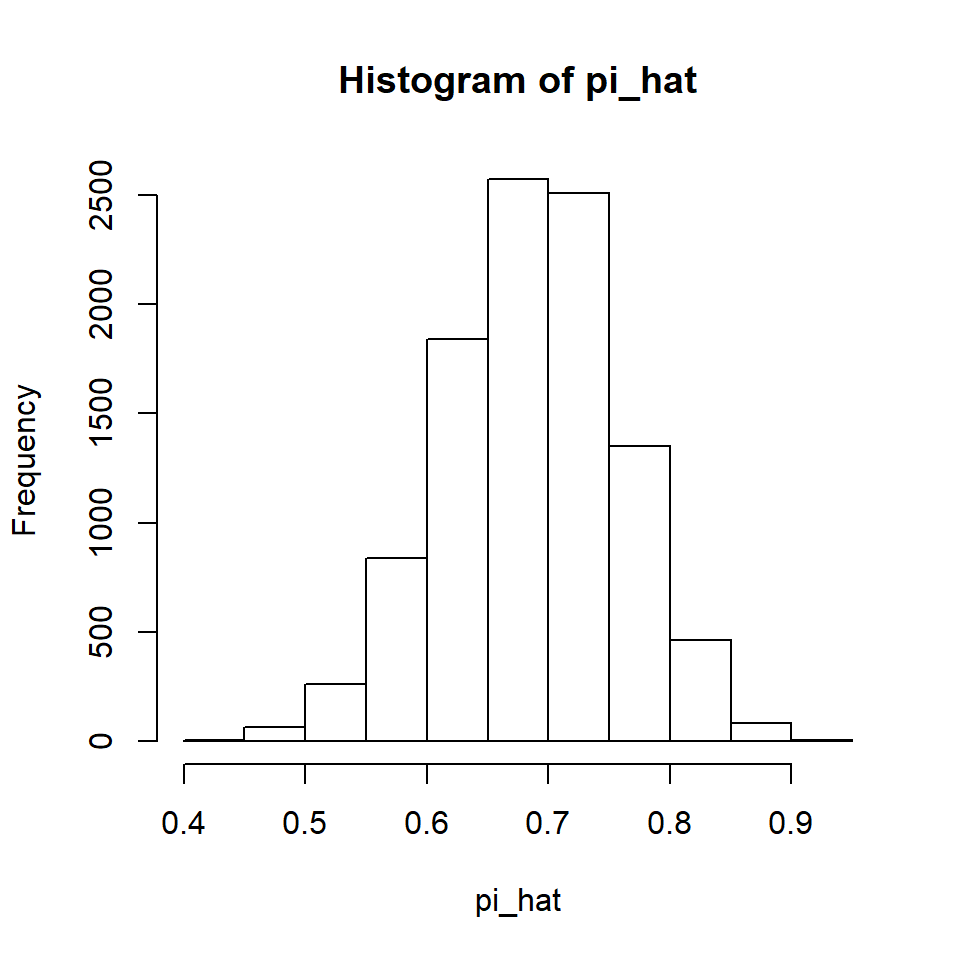
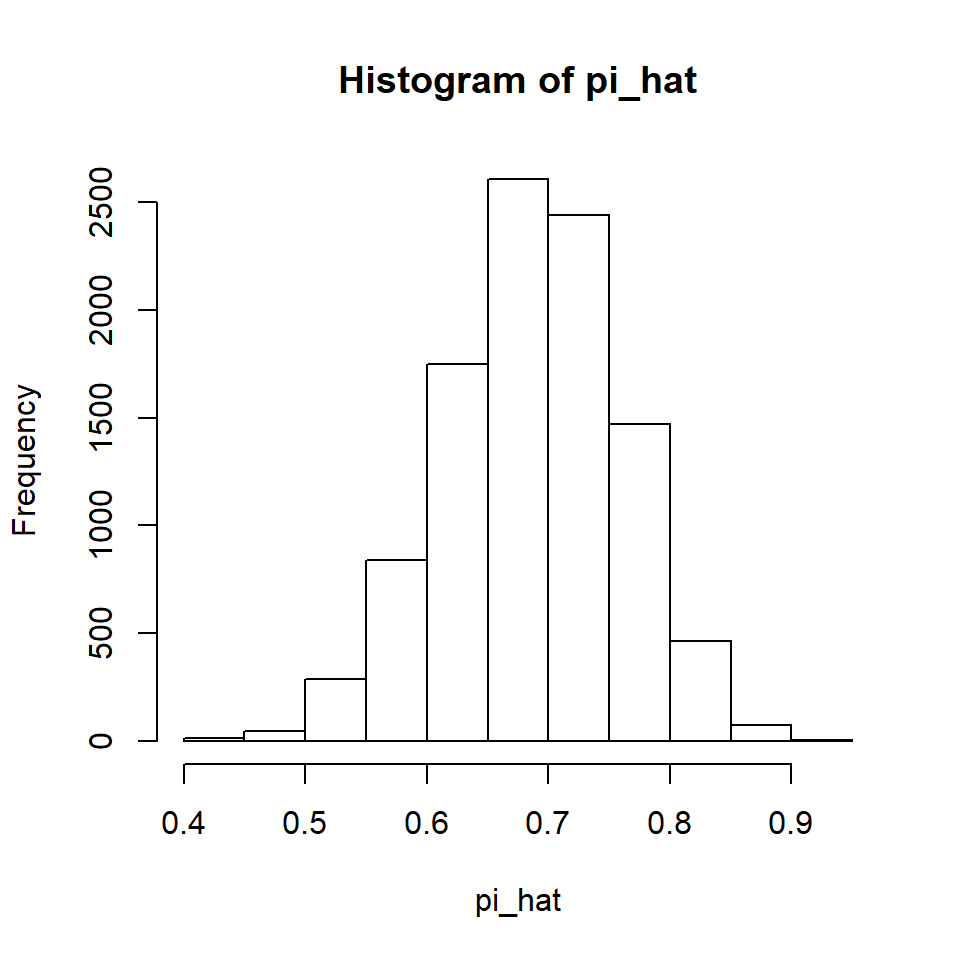
Completed binomial distribution vignette

diff --git a/docs/articles/binomdist.html b/docs/articles/binomdist.html
@@ -30,7 +30,7 @@
       </button>
       <span class="navbar-brand">
         <a class="navbar-link" href="../index.html">nplearn</a>
-        <span class="version label label-danger" data-toggle="tooltip" data-placement="bottom" title="Unreleased version">0.0.0.9003</span>
+        <span class="version label label-danger" data-toggle="tooltip" data-placement="bottom" title="Unreleased version">0.0.0.9004</span>
       </span>
     </div>
 
@@ -89,7 +89,7 @@
 
     
     
-<p>The binomial distribution is the key to exact inference about a proportion. The purpose of this vignette is to explain the binomial distribution and then demonstrate how it can be used for exact inference, including both hypothesis testing and confidence interval construction.</p>
+<p>The binomial distribution is the key to exact inference about a proportion. The purpose of this vignette is to explain the binomial distribution and provide some examples of practical uses for this distribution. This will pave the way for later learning about how the binomial distribution can be used for exact inference, including both hypothesis testing and confidence interval construction.</p>
 <div id="required-packages" class="section level3">
 <h3 class="hasAnchor">
 <a href="#required-packages" class="anchor"></a>Required packages</h3>
@@ -164,12 +164,121 @@
 <p>To calculate how many permutations there are when we include identical “objects” (we consider every “right” and every “wrong” as identical) we need to divide the total number of permutations by the number of permutations of each identical object. Here’s the calculation for five true-false items when three are correct and two are incorrect.</p>
 <div class="sourceCode" id="cb19"><pre class="sourceCode r"><code class="sourceCode r"><span id="cb19-1"><a href="#cb19-1"></a><span class="kw"><a href="https://www.rdocumentation.org/packages/base/topics/Special">factorial</a></span>(<span class="dv">5</span>)<span class="op">/</span>(<span class="kw"><a href="https://www.rdocumentation.org/packages/base/topics/Special">factorial</a></span>(<span class="dv">3</span>)<span class="op">*</span><span class="kw"><a href="https://www.rdocumentation.org/packages/base/topics/Special">factorial</a></span>(<span class="dv">2</span>))</span>
 <span id="cb19-2"><a href="#cb19-2"></a><span class="co">#&gt; [1] 10</span></span></code></pre></div>
-<p>This can be extended to any number of identical objects. The case where we have only two identical objects is all we will need when looking at a series of Bernoulli events, because by definition a Bernoulli event only has one of two outcomes. Given this case is so special, there is a special expression for it, as well as a special function for it. When we want to know how many ways we can get three items correct out of five Bernoulli trials, we say <em>five choose three</em>. Here’s the function.</p>
+<p>This can be extended to any number of identical objects. The case where we have only two identical objects is all we will need when looking at a series of Bernoulli events, because by definition a Bernoulli event only has one of two outcomes. Given this case is so special, there is a special expression for it, as well as a special function for it. When we want to know how many ways we can get three items correct out of five Bernoulli trials, we say <em>five choose three</em>. Here is how we represent it.</p>
+<p><span class="math inline">\(\binom{5}{3}\)</span></p>
+<p>Here’s the R function.</p>
 <div class="sourceCode" id="cb20"><pre class="sourceCode r"><code class="sourceCode r"><span id="cb20-1"><a href="#cb20-1"></a><span class="kw"><a href="https://www.rdocumentation.org/packages/base/topics/Special">choose</a></span>(<span class="dv">5</span>, <span class="dv">3</span>)</span>
 <span id="cb20-2"><a href="#cb20-2"></a><span class="co">#&gt; [1] 10</span></span></code></pre></div>
-<p>This function is referred to as the <em>binomial coefficient</em>. It would seem quite difficult to figure how many different ways there are to obtain 13 correct answers on a 20-item true-false quiz, but the binomial coefficient function makes it easy.</p>
+<p>This function is referred to as the <em>binomial coefficient</em>. In general, we represent the number of ways that we can have <span class="math inline">\(x\)</span> successes in <span class="math inline">\(n\)</span> trials like this, which we read as <em>n choose x</em>.</p>
+<p><span class="math inline">\(\binom{n}{x}\)</span></p>
+<p>It would seem quite difficult to figure how many different ways there are to obtain 13 correct answers on a 20-item true-false quiz, but the binomial coefficient function makes it easy.</p>
 <div class="sourceCode" id="cb21"><pre class="sourceCode r"><code class="sourceCode r"><span id="cb21-1"><a href="#cb21-1"></a><span class="kw"><a href="https://www.rdocumentation.org/packages/base/topics/Special">choose</a></span>(<span class="dv">20</span>,<span class="dv">13</span>)</span>
 <span id="cb21-2"><a href="#cb21-2"></a><span class="co">#&gt; [1] 77520</span></span></code></pre></div>
+</div>
+<div id="the-binomial-probability-function" class="section level3">
+<h3 class="hasAnchor">
+<a href="#the-binomial-probability-function" class="anchor"></a>The Binomial Probability Function</h3>
+<p>If we combine the concepts of joint events with the binomial coefficient, we can answer an interesting question. When we observe <span class="math inline">\(n\)</span> independent Bernoulli events, each with the same probability of success, <span class="math inline">\(\pi\)</span>, what is the probability that <span class="math inline">\(x\)</span> of these events will be a success? If that doesn’t really sound very interesting to you, consider a few examples.</p>
+<p><em>If the chance of contracting an illness is 40% when coming into contact </em> <em>with another person with the illness, what is the probability that all six </em> <em>people who came into contact with an ill person will avoid aquiring the </em> <em>illness themself?</em></p>
+<p><em>Suppose that there is an expensive treatment for the above illness and that </em> <em>medical professionals purchased enough drugs to treat two patients in </em> <em>anticipation that two of the six people will contract the illness. What is </em> <em>the probability that exactly two of the six people will indeed contract the </em> <em>illness?</em></p>
+<p><em>If the overall pass rate on an entrance exam is 70%, what is the probability </em> <em>that we will be able to fill eight slots with successful examinees if there </em> <em>are 11 applicants for the position?</em></p>
+<p>As we will see in the next vignette, knowing the probability of <span class="math inline">\(x\)</span> successes in <span class="math inline">\(n\)</span> trials can also be used to conduct hypotheses tests and construct confidence intervals for a proportion, so the value of being able to calculate probabilities based on <span class="math inline">\(n\)</span> Bernoulli events goes beyond answering questions like those above.</p>
+<p>Recall that we calculate the probability of independent joint events by taking the product of the probability of each event. When there is a 70% chance of passing an item on a five-item quiz, we calculate the probability of getting the first three items correct but missing the two remaining items like this.</p>
+<div class="sourceCode" id="cb22"><pre class="sourceCode r"><code class="sourceCode r"><span id="cb22-1"><a href="#cb22-1"></a><span class="fl">0.7</span><span class="op">^</span><span class="dv">3</span> <span class="op">*</span><span class="st"> </span><span class="fl">0.3</span><span class="op">^</span><span class="dv">2</span></span>
+<span id="cb22-2"><a href="#cb22-2"></a><span class="co">#&gt; [1] 0.03087</span></span></code></pre></div>
+<p>In more general terms, the chance of getting the first <span class="math inline">\(x\)</span> items correct but missing the remaining items on an <span class="math inline">\(n\)</span>-item quiz when the probability of success is <span class="math inline">\(pi\)</span> is calculated like this.</p>
+<p><span class="math inline">\(\pi^x (1-\pi)^{(n-x)}\)</span></p>
+<p>That is, we multiply the probability of the <span class="math inline">\(x\)</span> successes by the probability of the <span class="math inline">\(n-x\)</span> failures.</p>
+<p>I can’t think of a reason why I would want to know the chance of getting the first three items correct and missing the last two, but I can think of why I might want to know the probability of missing <em>any</em> two, not just the last two. That is where the binomial coefficient comes in handy. The binomial coefficient tells us how many ways we can arrange <span class="math inline">\(x\)</span> successes in <span class="math inline">\(n\)</span> trials. Here is how many ways we can have exactly three items correct on a five-item quiz.</p>
+<div class="sourceCode" id="cb23"><pre class="sourceCode r"><code class="sourceCode r"><span id="cb23-1"><a href="#cb23-1"></a><span class="kw"><a href="https://www.rdocumentation.org/packages/base/topics/Special">choose</a></span>(<span class="dv">5</span>, <span class="dv">3</span>)</span>
+<span id="cb23-2"><a href="#cb23-2"></a><span class="co">#&gt; [1] 10</span></span></code></pre></div>
+<p>If I multiply the probability of one specific sequence of three correct and two wrong with the number of ways I can have three correct and two wrong, that will give me the probability of obtaining any three correct on a five-item quiz.</p>
+<div class="sourceCode" id="cb24"><pre class="sourceCode r"><code class="sourceCode r"><span id="cb24-1"><a href="#cb24-1"></a><span class="kw"><a href="https://www.rdocumentation.org/packages/base/topics/Special">choose</a></span>(<span class="dv">5</span>, <span class="dv">3</span>) <span class="op">*</span><span class="st"> </span><span class="fl">0.7</span><span class="op">^</span><span class="dv">3</span> <span class="op">*</span><span class="st"> </span><span class="fl">0.3</span><span class="op">^</span><span class="dv">2</span></span>
+<span id="cb24-2"><a href="#cb24-2"></a><span class="co">#&gt; [1] 0.3087</span></span></code></pre></div>
+<p>We can right this in general terms like this.</p>
+<p><span class="math inline">\(P(X = x) = \binom{n}{x}\pi^x (1-\pi)^{(n-x)}\)</span></p>
+<p>This is the binomial probability function. It tells us the probability of <span class="math inline">\(x\)</span> successes in <span class="math inline">\(n\)</span> Bernoulli events when the probability of success is <span class="math inline">\(\pi\)</span> for each Bernoulli event. Note that whereas the values of <span class="math inline">\(x\)</span> are either 0 or 1 for a Bernoulli event, the values of <span class="math inline">\(x\)</span> for the binomial function will range from 0 to <span class="math inline">\(n\)</span>. That is, you can have 0 success, 1 success, 2 successes, and so on, all the way up to <span class="math inline">\(n\)</span> successes.</p>
+<p>Let’s now answer the first two of our three questions.</p>
+<p><em>If the chance of contracting an illness is 40% when coming into contact </em> <em>with another person with the illness, what is the probability that all six </em> <em>people who came into contact with an ill person will avoid aquiring the </em> <em>illness themself?</em></p>
+<p>Here’s the formula that will provide the solution.</p>
+<p><span class="math inline">\(P(X = 0) = \binom{6}{0}0.4^0 (1-0.4)^{(6-0)}\)</span></p>
+<p>Here it is calculated in R.</p>
+<div class="sourceCode" id="cb25"><pre class="sourceCode r"><code class="sourceCode r"><span id="cb25-1"><a href="#cb25-1"></a><span class="kw"><a href="https://www.rdocumentation.org/packages/base/topics/Special">choose</a></span>(<span class="dv">6</span>, <span class="dv">0</span>)<span class="op">*</span><span class="fl">0.4</span><span class="op">^</span><span class="dv">0</span><span class="op">*</span>(<span class="dv">1</span><span class="fl">-0.4</span>)<span class="op">^</span>(<span class="dv">6-0</span>)</span>
+<span id="cb25-2"><a href="#cb25-2"></a><span class="co">#&gt; [1] 0.046656</span></span></code></pre></div>
+<p>It looks like there is a very high chance that someone will get sick! The second question is about the anticipation that this will be two people.</p>
+<p><em>Suppose that there is an expensive treatment for the above illness and that </em> <em>medical professionals purchased enough drugs to treat two patients in </em> <em>anticipation that two of the six people will contract the illness. What is </em> <em>the probability that exactly two of the six people will indeed contract the </em> <em>illness?</em></p>
+<p>Here’s the formula that will provide the solution.</p>
+<p><span class="math inline">\(P(X = 2) = \binom{6}{2}0.4^2 (1-0.4)^{(6-2)}\)</span></p>
+<p>Here it is calculated in R.</p>
+<div class="sourceCode" id="cb26"><pre class="sourceCode r"><code class="sourceCode r"><span id="cb26-1"><a href="#cb26-1"></a><span class="kw"><a href="https://www.rdocumentation.org/packages/base/topics/Special">choose</a></span>(<span class="dv">6</span>, <span class="dv">2</span>)<span class="op">*</span><span class="fl">0.4</span><span class="op">^</span><span class="dv">2</span><span class="op">*</span>(<span class="dv">1</span><span class="fl">-0.4</span>)<span class="op">^</span>(<span class="dv">6-2</span>)</span>
+<span id="cb26-2"><a href="#cb26-2"></a><span class="co">#&gt; [1] 0.31104</span></span></code></pre></div>
+<p>So there is about a one in three chance that the medical staff purchased exactly the correct amount of drugs. It is probably more reasonable to believe that the medical staff wants to make sure they have enough drugs, but it would be OK to have some left over. This leads us to the most common use of the binomial probability function, which is the creation of the binomial distribution.</p>
+</div>
+<div id="the-binomial-distribution" class="section level3">
+<h3 class="hasAnchor">
+<a href="#the-binomial-distribution" class="anchor"></a>The Binomial Distribution</h3>
+<p>Rather than calculating the probability that zero or two people will get sick when they come in contact with a particular bacteria or virus, wouldn’t it make sense to know the probability for every possible outcome? Yes! That is what we do to create the binomial distribution. Here are all the probabilities.</p>
+<div class="sourceCode" id="cb27"><pre class="sourceCode r"><code class="sourceCode r"><span id="cb27-1"><a href="#cb27-1"></a>n &lt;-<span class="st"> </span><span class="dv">6</span></span>
+<span id="cb27-2"><a href="#cb27-2"></a>x &lt;-<span class="st"> </span><span class="dv">0</span><span class="op">:</span>n</span>
+<span id="cb27-3"><a href="#cb27-3"></a>pi &lt;-<span class="st"> </span><span class="fl">0.4</span></span>
+<span id="cb27-4"><a href="#cb27-4"></a></span>
+<span id="cb27-5"><a href="#cb27-5"></a>prob.x &lt;-<span class="st"> </span><span class="kw"><a href="https://www.rdocumentation.org/packages/base/topics/Special">choose</a></span>(n, x)<span class="op">*</span>pi<span class="op">^</span>x<span class="op">*</span>(<span class="dv">1</span><span class="op">-</span>pi)<span class="op">^</span>(n<span class="op">-</span>x)</span>
+<span id="cb27-6"><a href="#cb27-6"></a></span>
+<span id="cb27-7"><a href="#cb27-7"></a><span class="kw"><a href="https://www.rdocumentation.org/packages/base/topics/cbind">cbind</a></span>(x,prob.x)</span>
+<span id="cb27-8"><a href="#cb27-8"></a><span class="co">#&gt;      x   prob.x</span></span>
+<span id="cb27-9"><a href="#cb27-9"></a><span class="co">#&gt; [1,] 0 0.046656</span></span>
+<span id="cb27-10"><a href="#cb27-10"></a><span class="co">#&gt; [2,] 1 0.186624</span></span>
+<span id="cb27-11"><a href="#cb27-11"></a><span class="co">#&gt; [3,] 2 0.311040</span></span>
+<span id="cb27-12"><a href="#cb27-12"></a><span class="co">#&gt; [4,] 3 0.276480</span></span>
+<span id="cb27-13"><a href="#cb27-13"></a><span class="co">#&gt; [5,] 4 0.138240</span></span>
+<span id="cb27-14"><a href="#cb27-14"></a><span class="co">#&gt; [6,] 5 0.036864</span></span>
+<span id="cb27-15"><a href="#cb27-15"></a><span class="co">#&gt; [7,] 6 0.004096</span></span></code></pre></div>
+<p>Given that we calculated the probability for every possible outcome, these better add to one!</p>
+<div class="sourceCode" id="cb28"><pre class="sourceCode r"><code class="sourceCode r"><span id="cb28-1"><a href="#cb28-1"></a><span class="kw"><a href="https://www.rdocumentation.org/packages/base/topics/sum">sum</a></span>(prob.x)</span>
+<span id="cb28-2"><a href="#cb28-2"></a><span class="co">#&gt; [1] 1</span></span></code></pre></div>
+<p>They do! Here’s a picture of the binomial distribution. Note that it relates every possible value of <span class="math inline">\(x\)</span> to the probability of observing <span class="math inline">\(x\)</span> in <span class="math inline">\(n\)</span> trials, so this is a probability function.</p>
+<div class="sourceCode" id="cb29"><pre class="sourceCode r"><code class="sourceCode r"><span id="cb29-1"><a href="#cb29-1"></a><span class="kw"><a href="../reference/binom_plot.html">binom_plot</a></span>(<span class="dv">6</span>, <span class="fl">0.4</span>)</span></code></pre></div>
+<p><img src="binomdist_files/figure-html/unnamed-chunk-29-1.png" width="700"></p>
+<p>If we want to determine the probability that we have enough drugs for up to two people who may get sick (rather than exactly two people), we can find the cumulative probability up to and including two.</p>
+<div class="sourceCode" id="cb30"><pre class="sourceCode r"><code class="sourceCode r"><span id="cb30-1"><a href="#cb30-1"></a>n &lt;-<span class="st"> </span><span class="dv">6</span></span>
+<span id="cb30-2"><a href="#cb30-2"></a>x &lt;-<span class="st"> </span><span class="dv">0</span><span class="op">:</span><span class="dv">2</span></span>
+<span id="cb30-3"><a href="#cb30-3"></a>pi &lt;-<span class="st"> </span><span class="fl">0.4</span></span>
+<span id="cb30-4"><a href="#cb30-4"></a></span>
+<span id="cb30-5"><a href="#cb30-5"></a>prob.x &lt;-<span class="st"> </span><span class="kw"><a href="https://www.rdocumentation.org/packages/base/topics/Special">choose</a></span>(n, x)<span class="op">*</span>pi<span class="op">^</span>x<span class="op">*</span>(<span class="dv">1</span><span class="op">-</span>pi)<span class="op">^</span>(n<span class="op">-</span>x)</span>
+<span id="cb30-6"><a href="#cb30-6"></a><span class="kw"><a href="https://www.rdocumentation.org/packages/base/topics/sum">sum</a></span>(prob.x)</span>
+<span id="cb30-7"><a href="#cb30-7"></a><span class="co">#&gt; [1] 0.54432</span></span></code></pre></div>
+<p>There’s a little better than a one in two chance that two doses will be enough. (If this is a serious disease, I would want a higher probability that I’m going to be able to treat everyone!)</p>
+<p>You may have guessed by now that we don’t really need to write R code to make these calculations because someone has already done it for us. You would be correct. The binomial distribution is a common distribution, so we have the d, p, q, and r distribution functions at our disposal. Yay!</p>
+<p>Here’s the probability that exactly two out of six people will contract the sickness.</p>
+<div class="sourceCode" id="cb31"><pre class="sourceCode r"><code class="sourceCode r"><span id="cb31-1"><a href="#cb31-1"></a><span class="kw"><a href="https://www.rdocumentation.org/packages/stats/topics/Binomial">dbinom</a></span>(<span class="dt">x =</span> <span class="dv">2</span>, <span class="dt">size =</span> <span class="dv">6</span>, <span class="dt">prob =</span> <span class="fl">0.4</span>)</span>
+<span id="cb31-2"><a href="#cb31-2"></a><span class="co">#&gt; [1] 0.31104</span></span></code></pre></div>
+<p>Here’s the probability that two or less persons out of six people will contract the sickness.</p>
+<div class="sourceCode" id="cb32"><pre class="sourceCode r"><code class="sourceCode r"><span id="cb32-1"><a href="#cb32-1"></a><span class="kw"><a href="https://www.rdocumentation.org/packages/stats/topics/Binomial">pbinom</a></span>(<span class="dv">2</span>, <span class="dv">6</span>, <span class="fl">0.4</span>)</span>
+<span id="cb32-2"><a href="#cb32-2"></a><span class="co">#&gt; [1] 0.54432</span></span></code></pre></div>
+<p>Suppose we want to be at least 80% certain that we have enough treatments. How many should we get?</p>
+<div class="sourceCode" id="cb33"><pre class="sourceCode r"><code class="sourceCode r"><span id="cb33-1"><a href="#cb33-1"></a><span class="kw"><a href="https://www.rdocumentation.org/packages/stats/topics/Binomial">qbinom</a></span>(<span class="fl">0.8</span>, <span class="dv">6</span>, <span class="fl">0.4</span>)</span>
+<span id="cb33-2"><a href="#cb33-2"></a><span class="co">#&gt; [1] 3</span></span></code></pre></div>
+<p>We need three treatments. Remember that this is a discrete distribution, so it would be unusual to have the cumulative probability up to, and including, three be exactly 80%. Let’s see what it is.</p>
+<div class="sourceCode" id="cb34"><pre class="sourceCode r"><code class="sourceCode r"><span id="cb34-1"><a href="#cb34-1"></a><span class="kw"><a href="https://www.rdocumentation.org/packages/stats/topics/Binomial">pbinom</a></span>(<span class="dv">3</span>, <span class="dv">6</span>, <span class="fl">0.4</span>)</span>
+<span id="cb34-2"><a href="#cb34-2"></a><span class="co">#&gt; [1] 0.8208</span></span></code></pre></div>
+<p>It is 82%. Remember the rule for quantiles of a discrete distribution. We are seeking the smallest value of <span class="math inline">\(x\)</span> on the distribution such that the cumulative probability to, and including, <span class="math inline">\(x\)</span> is at least the specified probability. That’s what we got here, and we were able to use this rule to our advantage by being at least 80% sure that we have enough treatments.</p>
+<p>Let’s consider the final question posed above.</p>
+<p><em>If the overall pass rate on an entrance exam is 70%, what is the probability </em> <em>that we will be able to fill eight slots with successful examinees if there </em> <em>are 11 applicants for the position?</em></p>
+<p>If we have eight or more successful examinees, we will be able to fill the eight slots. We could do this one of two ways. We could calculate the probability of seven or fewer successes and then subtract this from one.</p>
+<div class="sourceCode" id="cb35"><pre class="sourceCode r"><code class="sourceCode r"><span id="cb35-1"><a href="#cb35-1"></a><span class="dv">1</span> <span class="op">-</span><span class="st"> </span><span class="kw"><a href="https://www.rdocumentation.org/packages/stats/topics/Binomial">pbinom</a></span>(<span class="dv">7</span>, <span class="dv">11</span>, <span class="fl">0.7</span>)</span>
+<span id="cb35-2"><a href="#cb35-2"></a><span class="co">#&gt; [1] 0.5695623</span></span></code></pre></div>
+<p>Alternatively, we could calculate the upper tail.</p>
+<div class="sourceCode" id="cb36"><pre class="sourceCode r"><code class="sourceCode r"><span id="cb36-1"><a href="#cb36-1"></a><span class="kw"><a href="https://www.rdocumentation.org/packages/stats/topics/Binomial">pbinom</a></span>(<span class="dv">7</span>, <span class="dv">11</span>, <span class="fl">0.7</span>, <span class="dt">lower.tail =</span> <span class="ot">FALSE</span>)</span>
+<span id="cb36-2"><a href="#cb36-2"></a><span class="co">#&gt; [1] 0.5695623</span></span></code></pre></div>
+<p>The important trick to remember here is that if we want an upper tail that includes a specified value (in this case, the value of eight), we need to subtract one from this value to make sure it is included in the upper region of the distribution.</p>
+<p>Finally, suppose we wanted to do a simulation using the binomial distribution. Here are 20 random draws from a distribution with <span class="math inline">\(\pi\)</span> = 0.8 when the sample size is 15.</p>
+<div class="sourceCode" id="cb37"><pre class="sourceCode r"><code class="sourceCode r"><span id="cb37-1"><a href="#cb37-1"></a><span class="kw"><a href="https://www.rdocumentation.org/packages/stats/topics/Binomial">rbinom</a></span>(<span class="dv">20</span>, <span class="dv">15</span>, <span class="fl">0.8</span>)</span>
+<span id="cb37-2"><a href="#cb37-2"></a><span class="co">#&gt;  [1] 10 11 12 12 14 10 12 13 13 10 11 12 13 12 11 11 13 11 11 10</span></span></code></pre></div>
+<p>Keep in mind that what each number we are randomly generating is the value of <span class="math inline">\(x\)</span>, which is the number of successes in <span class="math inline">\(n\)</span> trials. In this example there are 15 opportunities for success. The probability of success is quite high, so we are primarily seeing high numbers of successes out of the 15 trials.</p>
+<p>In this example, we were drawing from a binomial distribution with <span class="math inline">\(n\)</span> trials and a probability of success, <span class="math inline">\(\pi\)</span>. These are the parameters of the binomial distribution. Any binomial distribution can be generated if we know these two parameters. Let’s end with a picture of a binomial distribution when <span class="math inline">\(n\)</span> = 100 and <span class="math inline">\(\pi\)</span> = 0.5.</p>
+<div class="sourceCode" id="cb38"><pre class="sourceCode r"><code class="sourceCode r"><span id="cb38-1"><a href="#cb38-1"></a><span class="kw"><a href="../reference/binom_plot.html">binom_plot</a></span>(<span class="dv">100</span>, <span class="fl">0.5</span>)</span></code></pre></div>
+<p><img src="binomdist_files/figure-html/unnamed-chunk-38-1.png" width="700"></p>
+<p>That looks like a normal distribution, doesn’t it? That is why we can use the normal distribution for a large-sample approximation and it works pretty well. Yet the above distribution is <em>not</em> normal. For one thing, it is a discrete distribution, rather than continuous. So why bother to use a continuous distribution to approximate results when we can use the actual distribution? I have no idea! In the next vignette, let’s make inferences using the actual distribution, thus calculating exact probabilities rather than approximations.</p>
 </div>
   </div>
 

diff --git a/docs/articles/lsprop.html b/docs/articles/lsprop.html
@@ -30,7 +30,7 @@
       </button>
       <span class="navbar-brand">
         <a class="navbar-link" href="../index.html">nplearn</a>
-        <span class="version label label-danger" data-toggle="tooltip" data-placement="bottom" title="Unreleased version">0.0.0.9003</span>
+        <span class="version label label-danger" data-toggle="tooltip" data-placement="bottom" title="Unreleased version">0.0.0.9004</span>
       </span>
     </div>
 
@@ -106,8 +106,8 @@
 <span id="cb2-2"><a href="#cb2-2"></a>pi &lt;-<span class="st"> </span><span class="fl">0.7</span></span>
 <span id="cb2-3"><a href="#cb2-3"></a></span>
 <span id="cb2-4"><a href="#cb2-4"></a><span class="kw"><a href="https://www.rdocumentation.org/packages/Rlab/topics/Bernoulli">rbern</a></span>(n, pi)</span>
-<span id="cb2-5"><a href="#cb2-5"></a><span class="co">#&gt;  [1] 1 1 0 1 1 1 0 0 0 0 0 1 1 1 1 0 1 1 1 1 1 0 1 1 1 0 1 0 1 0 1 1 1 1 1</span></span>
-<span id="cb2-6"><a href="#cb2-6"></a><span class="co">#&gt; [36] 0 1 1 1 1</span></span></code></pre></div>
+<span id="cb2-5"><a href="#cb2-5"></a><span class="co">#&gt;  [1] 1 0 1 0 1 0 1 1 1 1 1 1 1 1 1 1 0 1 1 1 1 1 1 1 1 0 0 1 0 1 0 1 1 0 0</span></span>
+<span id="cb2-6"><a href="#cb2-6"></a><span class="co">#&gt; [36] 0 1 0 1 1</span></span></code></pre></div>
 <p>Now we will repeat this simulation 10,000 times. Each time, we will calculate the proportion success in the sample and save it.</p>
 <div class="sourceCode" id="cb3"><pre class="sourceCode r"><code class="sourceCode r"><span id="cb3-1"><a href="#cb3-1"></a>reps &lt;-<span class="st"> </span><span class="dv">10000</span></span>
 <span id="cb3-2"><a href="#cb3-2"></a></span>
@@ -117,7 +117,7 @@
 <p><img src="lsprop_files/figure-html/unnamed-chunk-4-1.png" width="480"></p>
 <p>We can see the CLT at work. Further, note that if we calculate the mean of all 10,000 values of the sample proportions, it is quite close to the population proportion of 0.7.</p>
 <div class="sourceCode" id="cb5"><pre class="sourceCode r"><code class="sourceCode r"><span id="cb5-1"><a href="#cb5-1"></a><span class="kw"><a href="https://www.rdocumentation.org/packages/base/topics/mean">mean</a></span>(pi_hat)</span>
-<span id="cb5-2"><a href="#cb5-2"></a><span class="co">#&gt; [1] 0.69947</span></span></code></pre></div>
+<span id="cb5-2"><a href="#cb5-2"></a><span class="co">#&gt; [1] 0.700125</span></span></code></pre></div>
 <p>When the mean of a statistic’s sampling distribution is the population value of the parameter the statistic is estimating, we refer to the statistic as <em>unbiased</em>. This is a desirable property because it tells us that the average of many wrongs is a right!</p>
 <p>If we increase the sample size, we can see the Law of Large Numbers at work. Let’s try increasing it from 40 to 200.</p>
 <div class="sourceCode" id="cb6"><pre class="sourceCode r"><code class="sourceCode r"><span id="cb6-1"><a href="#cb6-1"></a>n &lt;-<span class="st"> </span><span class="dv">200</span></span>

diff --git a/docs/articles/Bernoulli-Events.html b/docs/articles/Bernoulli-Events.html
@@ -30,7 +30,7 @@
       </button>
       <span class="navbar-brand">
         <a class="navbar-link" href="../index.html">nplearn</a>
-        <span class="version label label-danger" data-toggle="tooltip" data-placement="bottom" title="Unreleased version">0.0.0.9003</span>
+        <span class="version label label-danger" data-toggle="tooltip" data-placement="bottom" title="Unreleased version">0.0.0.9004</span>
       </span>
     </div>
 
@@ -186,10 +186,10 @@
 <a href="#random-variates" class="anchor"></a>Random variates</h3>
 <p>R also has (r) functions for many distributions (e.g., rnorm and rbern). These provide us a specified number of randomly seleted values from the corresponding distribution. These are known as “random variates”. This will be very handy when we study concepts such as Monte Carlo methods.</p>
 <div class="sourceCode" id="cb15"><pre class="sourceCode r"><code class="sourceCode r"><span id="cb15-1"><a href="#cb15-1"></a><span class="kw"><a href="https://www.rdocumentation.org/packages/stats/topics/Normal">rnorm</a></span>(<span class="dv">10</span>)</span>
-<span id="cb15-2"><a href="#cb15-2"></a><span class="co">#&gt;  [1] -2.50169169 -0.05528450 -1.01163832  1.36174626 -1.31869891</span></span>
-<span id="cb15-3"><a href="#cb15-3"></a><span class="co">#&gt;  [6]  0.01123155  1.16797828  0.94014443  0.37183483  1.46994748</span></span>
+<span id="cb15-2"><a href="#cb15-2"></a><span class="co">#&gt;  [1] -0.77865372  0.66249826  0.88020305  0.60216879 -0.04766313</span></span>
+<span id="cb15-3"><a href="#cb15-3"></a><span class="co">#&gt;  [6]  0.23929405  0.92589892  2.19008046  0.83072639  0.23701051</span></span>
 <span id="cb15-4"><a href="#cb15-4"></a><span class="kw">rbern</span>(<span class="dv">10</span>, <span class="fl">0.7</span>)</span>
-<span id="cb15-5"><a href="#cb15-5"></a><span class="co">#&gt;  [1] 1 1 0 1 1 0 1 1 1 1</span></span></code></pre></div>
+<span id="cb15-5"><a href="#cb15-5"></a><span class="co">#&gt;  [1] 1 1 0 1 1 1 1 0 1 1</span></span></code></pre></div>
 </div>
   </div>
 

diff --git a/doc/Bernoulli-Events.html b/doc/Bernoulli-Events.html
@@ -398,10 +398,10 @@ code > span.fu { color: #900; font-weight: bold; }  code > span.er { color: #a61
 <h3>Random variates</h3>
 <p>R also has (r) functions for many distributions (e.g., rnorm and rbern). These provide us a specified number of randomly seleted values from the corresponding distribution. These are known as “random variates”. This will be very handy when we study concepts such as Monte Carlo methods.</p>
 <div class="sourceCode" id="cb15"><pre class="sourceCode r"><code class="sourceCode r"><span id="cb15-1"><a href="#cb15-1"></a><span class="kw">rnorm</span>(<span class="dv">10</span>)</span>
-<span id="cb15-2"><a href="#cb15-2"></a><span class="co">#&gt;  [1]  0.1617450  0.5307885  0.4533331 -0.3228006 -0.3946291  1.2801761</span></span>
-<span id="cb15-3"><a href="#cb15-3"></a><span class="co">#&gt;  [7] -1.6787261  0.3782613  0.3426061  0.4446909</span></span>
+<span id="cb15-2"><a href="#cb15-2"></a><span class="co">#&gt;  [1] -0.97230536 -0.45909531  1.53466534  0.67596326 -0.07755208</span></span>
+<span id="cb15-3"><a href="#cb15-3"></a><span class="co">#&gt;  [6]  0.98182323 -1.80914095 -0.57831904 -0.35789649 -0.44357552</span></span>
 <span id="cb15-4"><a href="#cb15-4"></a><span class="kw">rbern</span>(<span class="dv">10</span>, <span class="fl">0.7</span>)</span>
-<span id="cb15-5"><a href="#cb15-5"></a><span class="co">#&gt;  [1] 1 1 1 1 0 0 1 1 0 1</span></span></code></pre></div>
+<span id="cb15-5"><a href="#cb15-5"></a><span class="co">#&gt;  [1] 1 0 1 0 0 1 1 1 1 1</span></span></code></pre></div>
 </div>
 
 

diff --git a/docs/reference/binom_plot.html b/docs/reference/binom_plot.html
@@ -64,7 +64,7 @@ specified number of trials and a constant probability of success." />
       </button>
       <span class="navbar-brand">
         <a class="navbar-link" href="../index.html">nplearn</a>
-        <span class="version label label-danger" data-toggle="tooltip" data-placement="bottom" title="Unreleased version">0.0.0.9003</span>
+        <span class="version label label-danger" data-toggle="tooltip" data-placement="bottom" title="Unreleased version">0.0.0.9004</span>
       </span>
     </div>
 

diff --git a/docs/reference/bern_plot.html b/docs/reference/bern_plot.html
@@ -64,7 +64,7 @@ specified probability of success of a Bernoulli event." />
       </button>
       <span class="navbar-brand">
         <a class="navbar-link" href="../index.html">nplearn</a>
-        <span class="version label label-danger" data-toggle="tooltip" data-placement="bottom" title="Unreleased version">0.0.0.9003</span>
+        <span class="version label label-danger" data-toggle="tooltip" data-placement="bottom" title="Unreleased version">0.0.0.9004</span>
       </span>
     </div>
 

diff --git a/docs/articles/Workflow-Sample.html b/docs/articles/Workflow-Sample.html
@@ -30,7 +30,7 @@
       </button>
       <span class="navbar-brand">
         <a class="navbar-link" href="../index.html">nplearn</a>
-        <span class="version label label-danger" data-toggle="tooltip" data-placement="bottom" title="Unreleased version">0.0.0.9003</span>
+        <span class="version label label-danger" data-toggle="tooltip" data-placement="bottom" title="Unreleased version">0.0.0.9004</span>
       </span>
     </div>
 

diff --git a/docs/articles/index.html b/docs/articles/index.html
@@ -60,7 +60,7 @@
       </button>
       <span class="navbar-brand">
         <a class="navbar-link" href="../index.html">nplearn</a>
-        <span class="version label label-danger" data-toggle="tooltip" data-placement="bottom" title="Unreleased version">0.0.0.9003</span>
+        <span class="version label label-danger" data-toggle="tooltip" data-placement="bottom" title="Unreleased version">0.0.0.9004</span>
       </span>
     </div>
 

diff --git a/docs/reference/index.html b/docs/reference/index.html
@@ -60,7 +60,7 @@
       </button>
       <span class="navbar-brand">
         <a class="navbar-link" href="../index.html">nplearn</a>
-        <span class="version label label-danger" data-toggle="tooltip" data-placement="bottom" title="Unreleased version">0.0.0.9003</span>
+        <span class="version label label-danger" data-toggle="tooltip" data-placement="bottom" title="Unreleased version">0.0.0.9004</span>
       </span>
     </div>
 

diff --git a/docs/reference/nplearn-package.html b/docs/reference/nplearn-package.html
@@ -65,7 +65,7 @@
       </button>
       <span class="navbar-brand">
         <a class="navbar-link" href="../index.html">nplearn</a>
-        <span class="version label label-danger" data-toggle="tooltip" data-placement="bottom" title="Unreleased version">0.0.0.9003</span>
+        <span class="version label label-danger" data-toggle="tooltip" data-placement="bottom" title="Unreleased version">0.0.0.9004</span>
       </span>
     </div>
 

diff --git a/docs/LICENSE-text.html b/docs/LICENSE-text.html
@@ -60,7 +60,7 @@
       </button>
       <span class="navbar-brand">
         <a class="navbar-link" href="index.html">nplearn</a>
-        <span class="version label label-danger" data-toggle="tooltip" data-placement="bottom" title="Unreleased version">0.0.0.9003</span>
+        <span class="version label label-danger" data-toggle="tooltip" data-placement="bottom" title="Unreleased version">0.0.0.9004</span>
       </span>
     </div>
 

diff --git a/docs/LICENSE.html b/docs/LICENSE.html
@@ -60,7 +60,7 @@
       </button>
       <span class="navbar-brand">
         <a class="navbar-link" href="index.html">nplearn</a>
-        <span class="version label label-danger" data-toggle="tooltip" data-placement="bottom" title="Unreleased version">0.0.0.9003</span>
+        <span class="version label label-danger" data-toggle="tooltip" data-placement="bottom" title="Unreleased version">0.0.0.9004</span>
       </span>
     </div>
 
